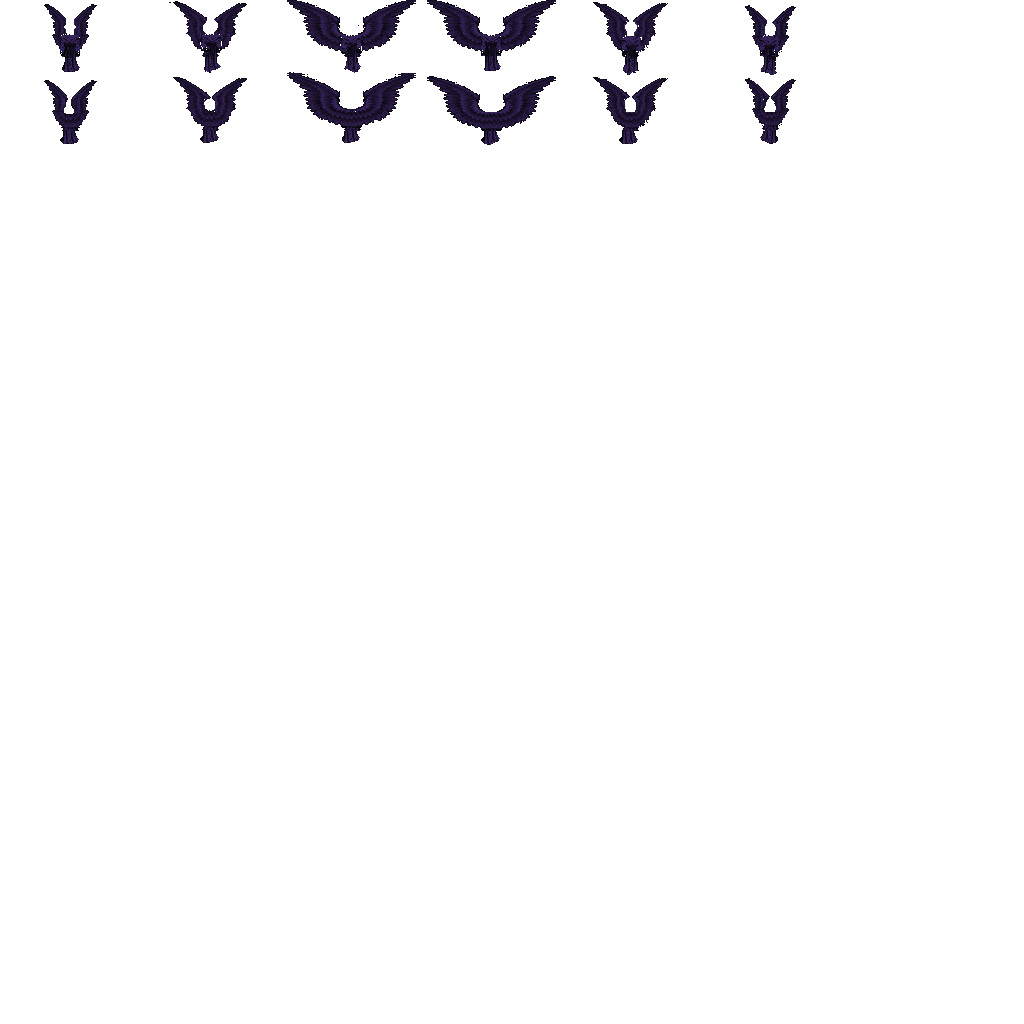
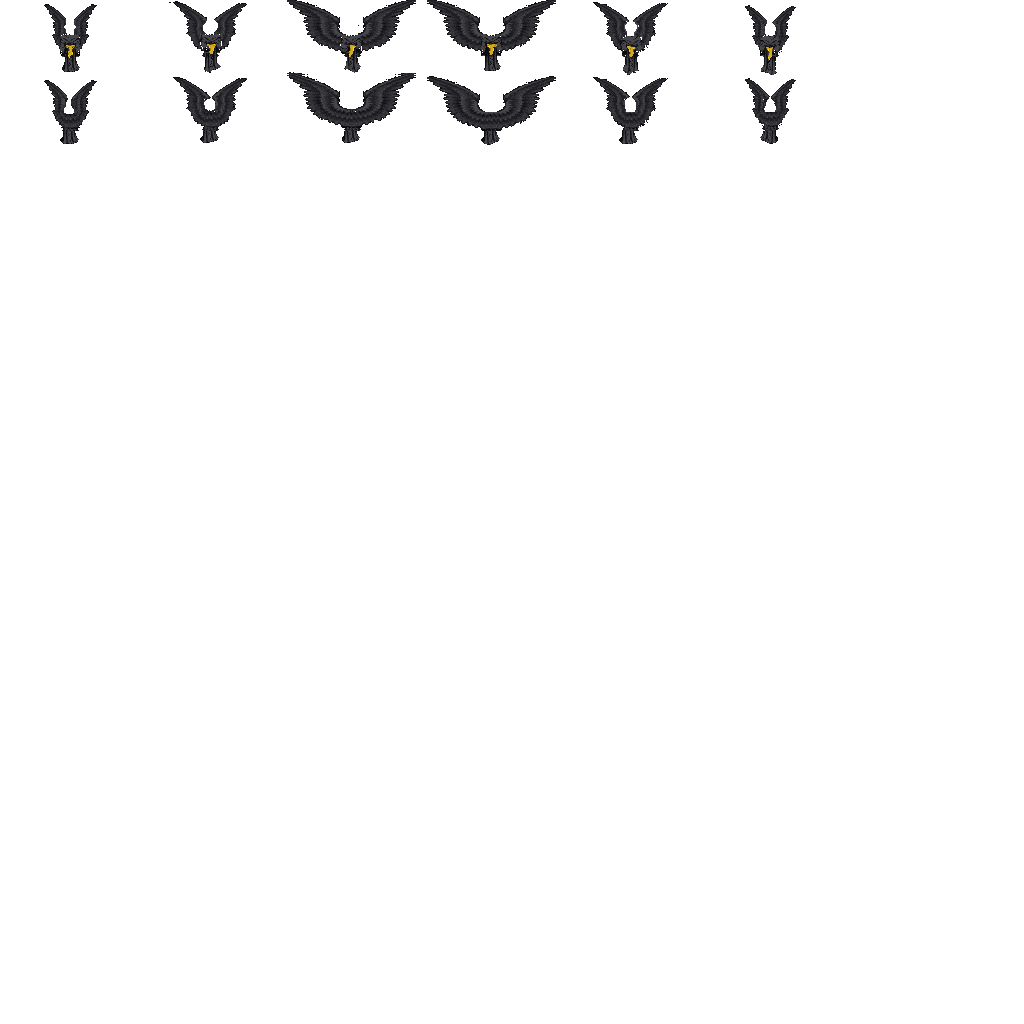
Alas del Ángel Oscuro: túnica y alas negras con la soga del medio dorada
Claude-Session: https://claude.ai/code/session_01HzsK1tc3Aky3qJofXkgBu1

diff --git a/PARA-TESTEAR.md b/PARA-TESTEAR.md
@@ -100,7 +100,7 @@ Marcá con una X lo que ya probaste. Versión: v1.60.0 o más nueva.
 - [ ] Con un GM de igual o mayor rango no tiene que hacer nada.
 
 ## Alas del Ángel Oscuro
-- [ ] /CI 2065 1 y equiparlas: versión oscura de las Alas de Ángel, con rayos alrededor todo el tiempo (también caminando).
+- [ ] /CI 2065 1 y equiparlas: versión negra con soga dorada de las Alas de Ángel, con rayos alrededor todo el tiempo (también caminando).
 
 ## Pendiente (no está hecho)
 - Ajustar los premios del pase.
